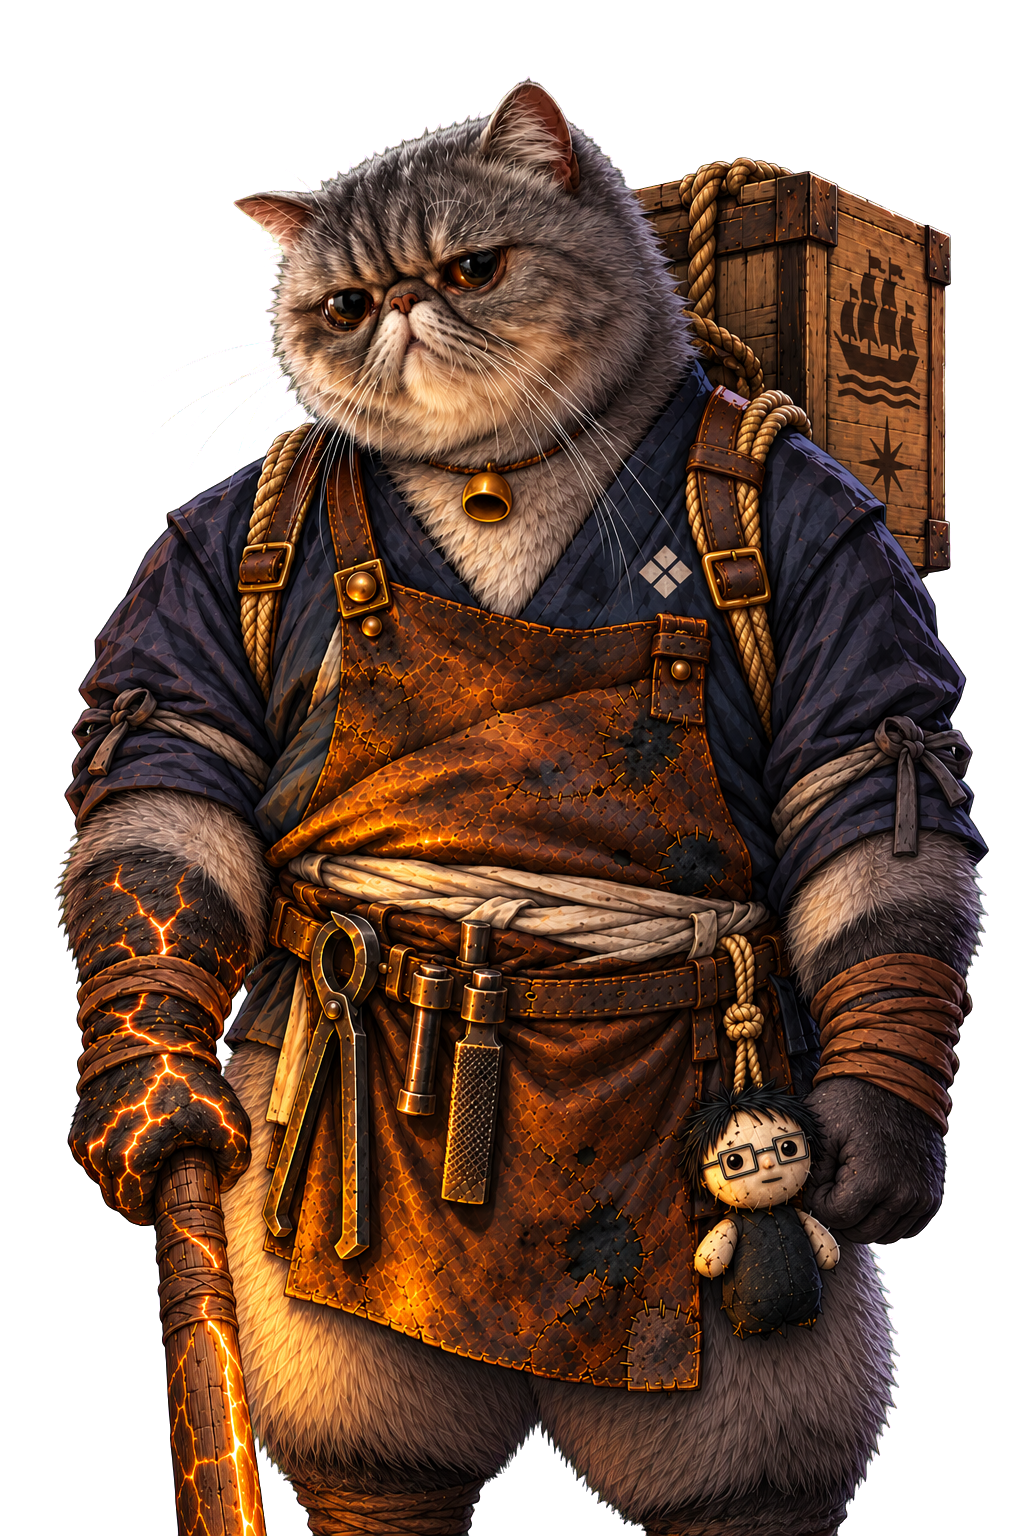
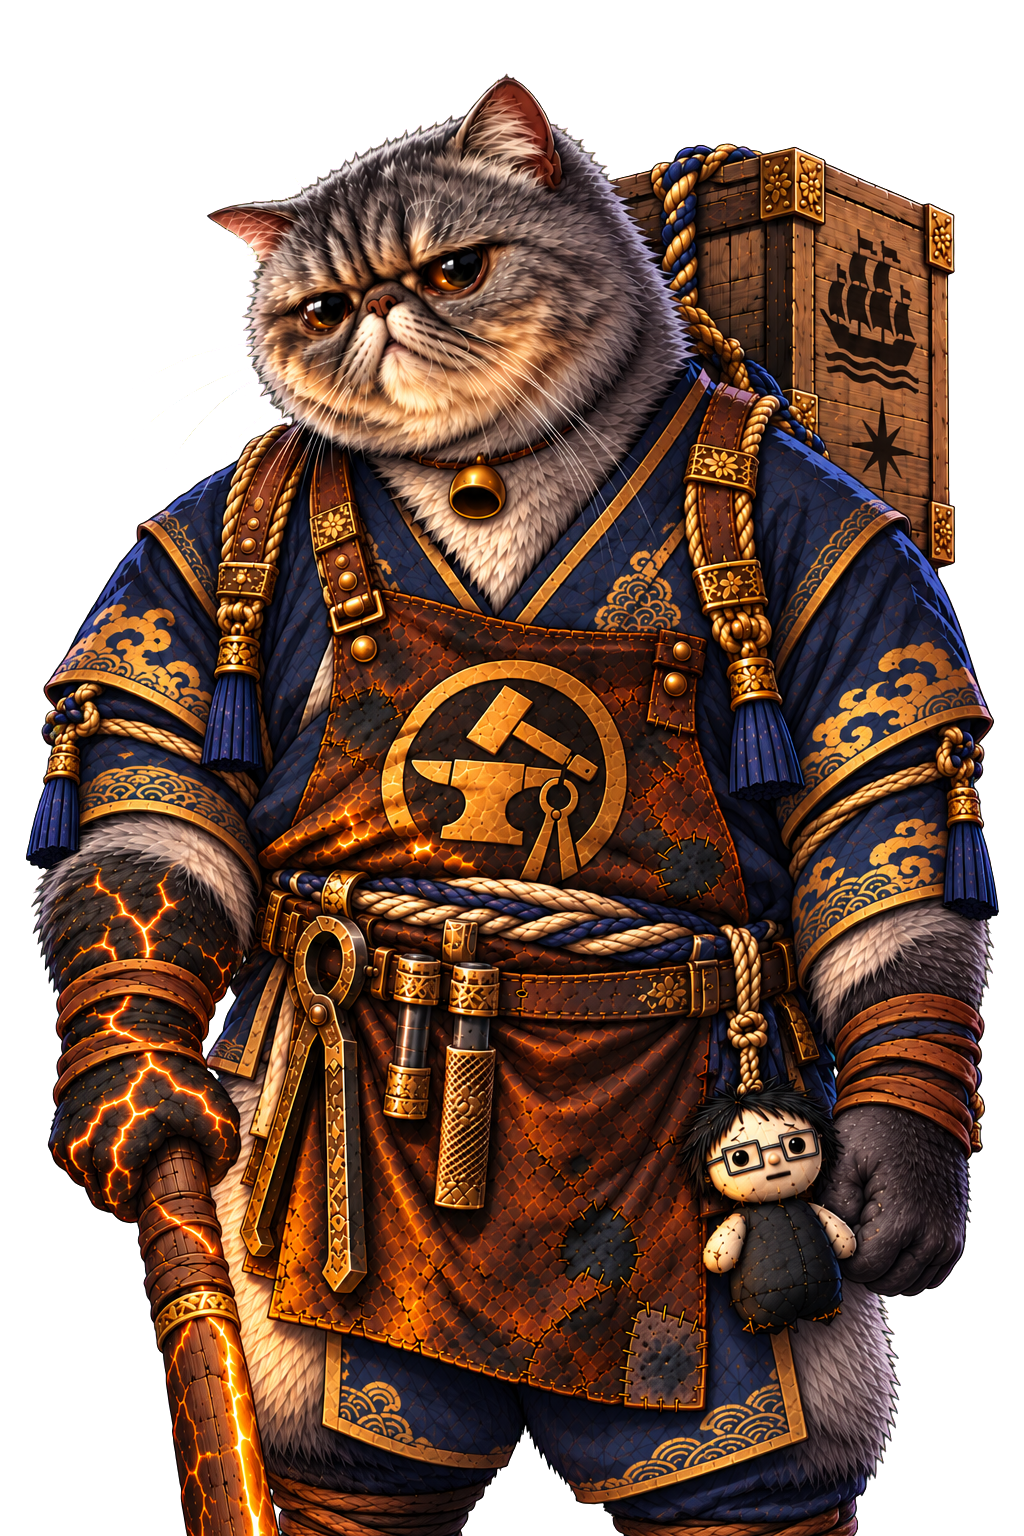
Oliver's paintings repainted in the cast's ornate style: patterned indigo coat with gold embroidery, a large gold anvil mon on the apron, braided cords and tassels, bronze-fitted crate; his close-up's framing and Look updated to match

diff --git a/Assets/Scripts/Core/GameManager.Talk.cs b/Assets/Scripts/Core/GameManager.Talk.cs
@@ -377,7 +377,7 @@ public partial class GameManager
             case "Mizore": return SoulSpeaker(name, "The Court Physician", Element.Water, mizoreCloseup, new Vector2(0.72f, 0.18f), 0.95f);
             case "Hibiki": return SoulSpeaker(name, "The Village Drummer", Element.Lightning, hibikiCloseup, new Vector2(0.67f, 0.22f));
             case "Asagi": return SoulSpeaker(name, "The Pond Physician", Element.Tide, asagiCloseup, new Vector2(0.63f, 0.26f), 0.88f);
-            case "Oliver": return SoulSpeaker(name, "The Smith's Cat", Element.Steel, oliverCloseup, new Vector2(0.40f, 0.19f));
+            case "Oliver": return SoulSpeaker(name, "The Smith's Cat", Element.Steel, oliverCloseup, new Vector2(0.38f, 0.19f));
             // He's small, so his painting is drawn a little smaller than the souls'; his pixel frames stand in without it.
             case "Poguru":
                 return new DialogueScene.Speaker { name = "Poguru", epithet = "The Lost Dragon", colour = PoguruColour, art = poguruCloseup,

diff --git a/Docs/CHARACTER_ART_GUIDE.md b/Docs/CHARACTER_ART_GUIDE.md
@@ -95,7 +95,7 @@ The Steel soul. Story, palette table and the full pixel brief are in `Story/Oliv
 
 Identity: a real exotic shorthair's head on a colossal blacksmith's body. The head is a portrait of the user's friend's cat and is locked: broad, round, totally flat face with heavy cheeks and no neck; dense blue-grey tabby washed with warm fawn, dark vertical forehead bars; cream chin and bib; very large, round, wide-set copper-amber eyes under sloping brow folds; a tiny dusky nose set high, a deep crease into a small down-turned mouth; small rounded ears at the far corners of the head; very long, fine pure-white whiskers reaching the chest. Head slightly tilted, looking up from under the brow, mournful and unimpressed. Render real, dense fur with a dark fantasy finish. It is not a mascot, a cartoon or a bear: no smile, no tongue, no sparkling eyes, no human features on the face.
 
-Body and costume: barrel-chested, sloped shoulders, bolster forearms, short planted legs, a short thick tail, blunt paw-hands. A patched, inky indigo work coat with sleeves tied back by a cord, a small pale forge crest and a pale stomach wrap, under a scorched rust-brown leather bib apron, too small, riveted at the straps; ash-black forearms and paws with leather wrist wraps, the hammer's forge-gold cracks running up through the fur of the hammer arm; a low belt with tongs, a punch and a rasp; leather shin wrappings and bare hind paws; the foreign crate he arrived in, roped on his back above and behind one shoulder with a ship and a star burned into it (no legible words); a narrow cracked collar half-buried in the ruff with a small plain bronze bell that visibly has no tongue. The blacksmith concept art the user supplied is for bulk and costume ideas only; don't copy it.
+Body and costume: barrel-chested, sloped shoulders, bolster forearms, short planted legs, a short thick tail, blunt paw-hands. A patched, deep indigo work coat in woven pattern with gold wave embroidery and bronze-gold edging, sleeves tied back by braided indigo-and-gold cords with tassels, under a scorched rust-brown leather bib apron bearing a large gold anvil, hammer and tongs mon, too small, riveted at the straps; ash-black forearms and paws with leather wrist wraps, the hammer's forge-gold cracks running up through the fur of the hammer arm; a low belt with tongs, a punch and a rasp; leather shin wrappings and bare hind paws; the foreign crate he arrived in, roped on his back above and behind one shoulder with a ship and a star burned into it (no legible words); a narrow cracked collar half-buried in the ruff with a small plain bronze bell that visibly has no tongue. The blacksmith concept art the user supplied is for bulk and costume ideas only; don't copy it.
 
 Weapon, the **master's hammer**: a working forge hammer, not a war hammer, with a short ash haft and a square-faced cross-peen head of black iron about the size of his own head. Carried low in the right hand, head toward the ground, **never on the shoulder** (that's Kagetsune's silhouette). Crisp forge-gold seams through cracks in the iron, brightest on the striking face, with a thin ember edge and a few falling sparks. Hot metal, not magic: no aura, no beam, no soft bloom.
 

diff --git a/Story/Oliver.md b/Story/Oliver.md
@@ -55,13 +55,14 @@ men to move and has no intention of helping them. Fur all over, thick and blunt-
 tail. **The size is a memory**: from the bricks behind the anvil, the master was the biggest thing in the world, so
 that is the size a soul should be. The body is Jūsuke as a cat saw him from the floor. Jūsuke was a slight man.
 
-**The approved painting** (`~/Pictures/ronin-drafts/oliver/out/full_c.png` until it's in the project) is the authority
+**The approved painting** (`Assets/Art/Portraits/Oliver_Full.png`, the ornate repaint that matches the cast) is the authority
 for everything below the neck.
 
 **Costume** (a working smith's, worn-in, nothing ceremonial; Jūsuke's own, and it fits only because the soul built
 itself around it):
 
-- A patched, inky indigo work coat with its sleeves tied back by a dark cord, a small pale forge crest on the chest, and
+- A patched, deep indigo work coat in woven pattern, gold wave embroidery and bronze-gold edging on the sleeves, tied back
+  with braided indigo-and-gold cords and tassels, with a large gold anvil, hammer and tongs mon on the apron, and
   a pale cloth stomach wrap. The indigo stays near black, well clear of Asagi's sea-blue.
 - A heavy, scorched, rust-brown leather bib apron over it, too small across the chest, patched and riveted at the straps.
 - **Ash-black forearms and paws.** The forge's ash has settled in him and shows here, with leather work wraps at the
